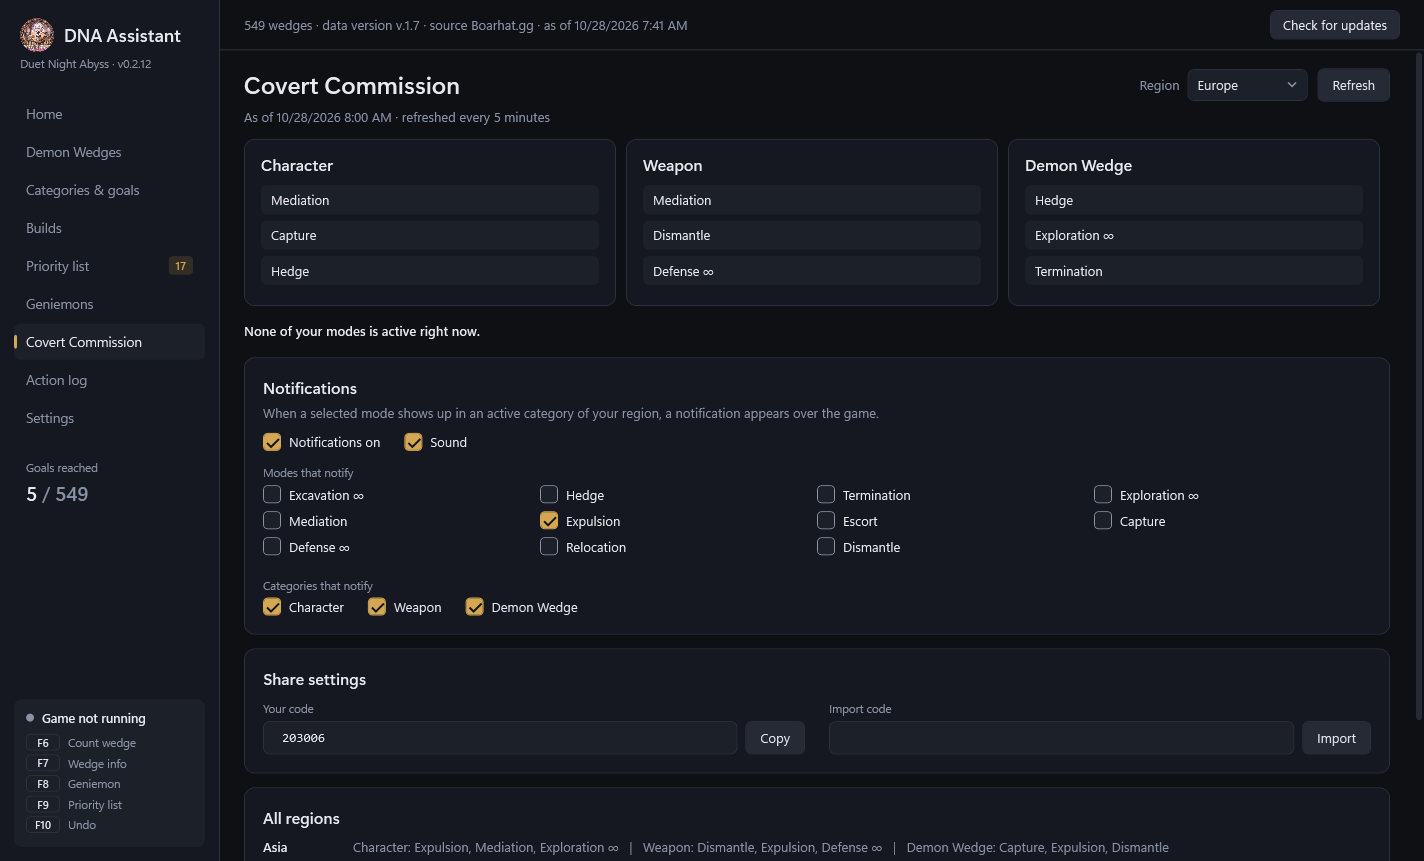
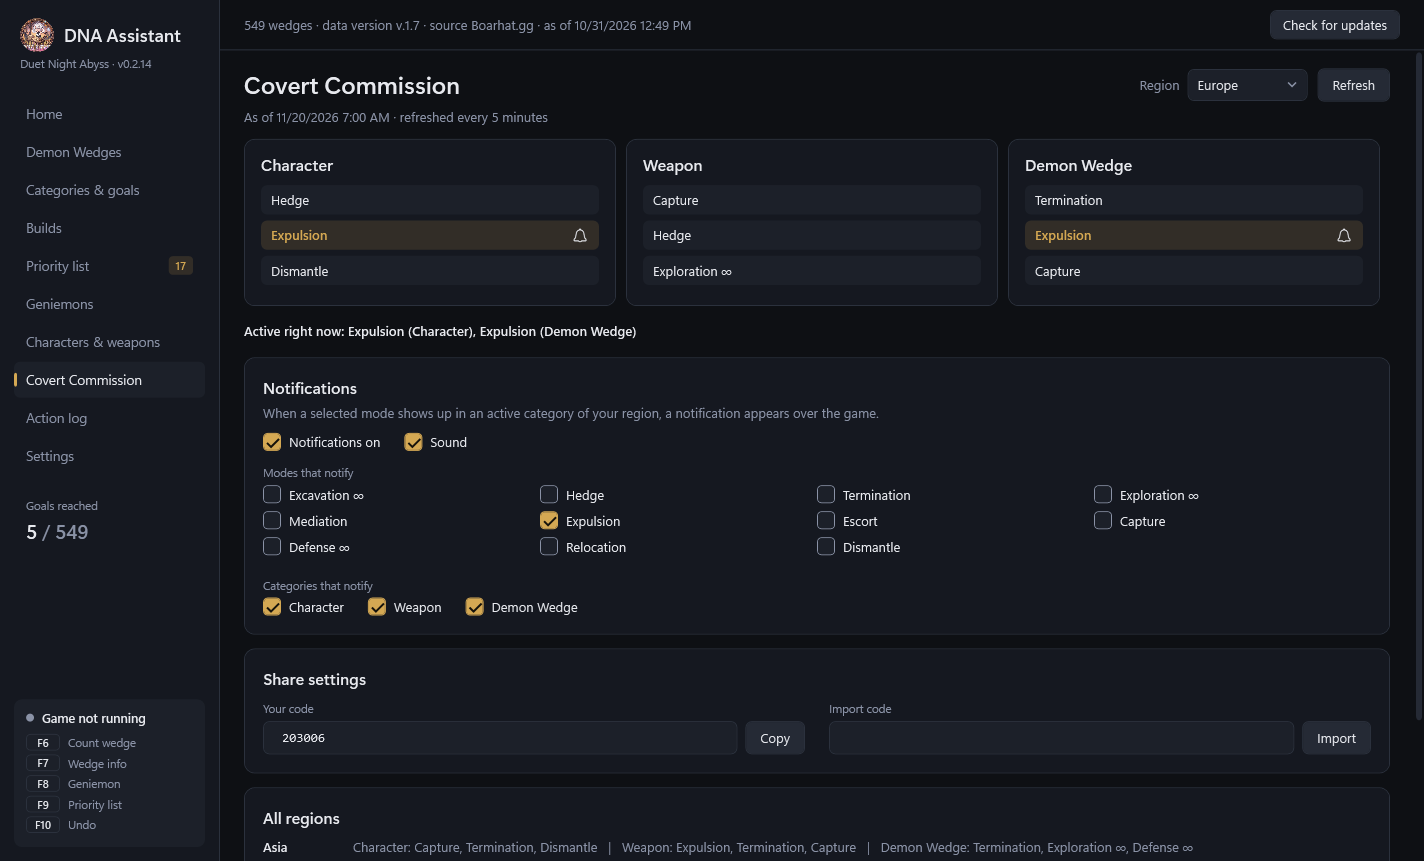
README: characters & weapons tracking, updated screenshots

diff --git a/README.md b/README.md
@@ -59,7 +59,7 @@ Set how many copies you want per category or per wedge (for example 1 or 4), sor
 
 ### 🧩 Builds
 
-Import builds from a boarhat link or code, from boarhat presets or from a **screenshot of your wedge set** – the wedges are recognized and filled in. Type to search when picking the character, weapons and wedges. See progress like “3/10 wedges done”, send everything missing to the priority list in one click, and share builds as a link.
+Import builds from a boarhat link or code, from boarhat presets or from a **screenshot of your wedge set** – the wedges are recognized and filled in. Type to search when picking the character, weapons and wedges. See progress like “3/10 wedges done” and whether the character and weapons are owned and maxed, send everything missing to the priority list in one click, and share builds as a link.
 
 <img src="images/builds.png" width="900" alt="Build list with progress and missing wedges">
 
@@ -76,6 +76,12 @@ The wedges you need next, including where to get them – press **F9** to show t
 Your collection per variant (Miraculous, Ardent, Shiny) with a wanted amount per variant. Battle pass Geniemons are tracked without a limit, inactive ones are hidden.
 
 <img src="images/geniemons.png" width="900" alt="Geniemon collection">
+
+### 🛡 Characters & weapons
+
+Tick which characters and weapons you own (**Own**) and which are fully upgraded (**Max** – Intron 6 for characters, Smelting 5 for weapons). Filter by what's missing – and the build info shows right away whether the build's character and weapons are owned and maxed.
+
+<img src="images/characters-weapons.png" width="900" alt="Characters and weapons with Own and Max">
 
 ### 📡 Covert Commission
 
@@ -112,8 +118,8 @@ In the settings under **Autostart**:
 
 ## Planned
 
-- [ ] **Character tracking** – track which characters you own and level up
-- [ ] **Weapon tracking** – track which weapons you own and level up
+- [x] **Character tracking** – owned and max Intron (added in v0.2.14)
+- [x] **Weapon tracking** – owned and max Smelting (added in v0.2.14)
 
 ## Languages
 
